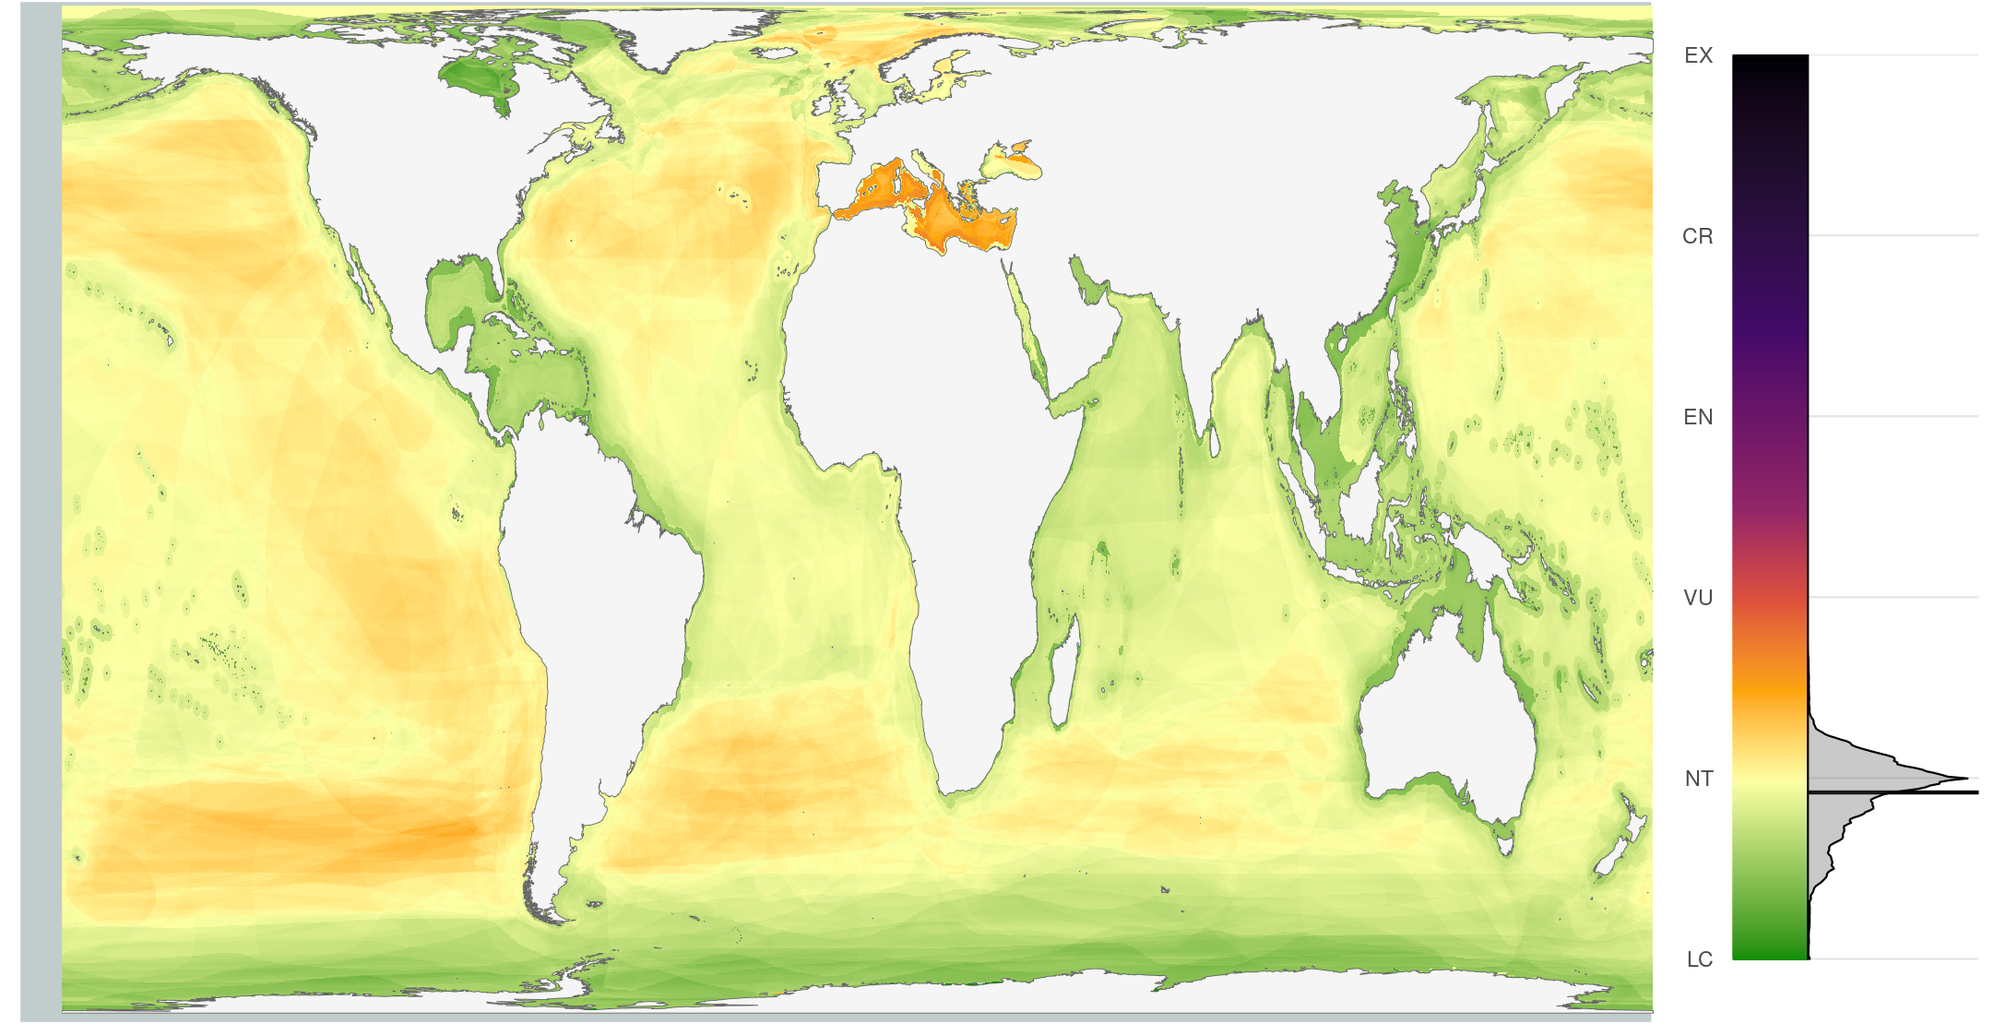
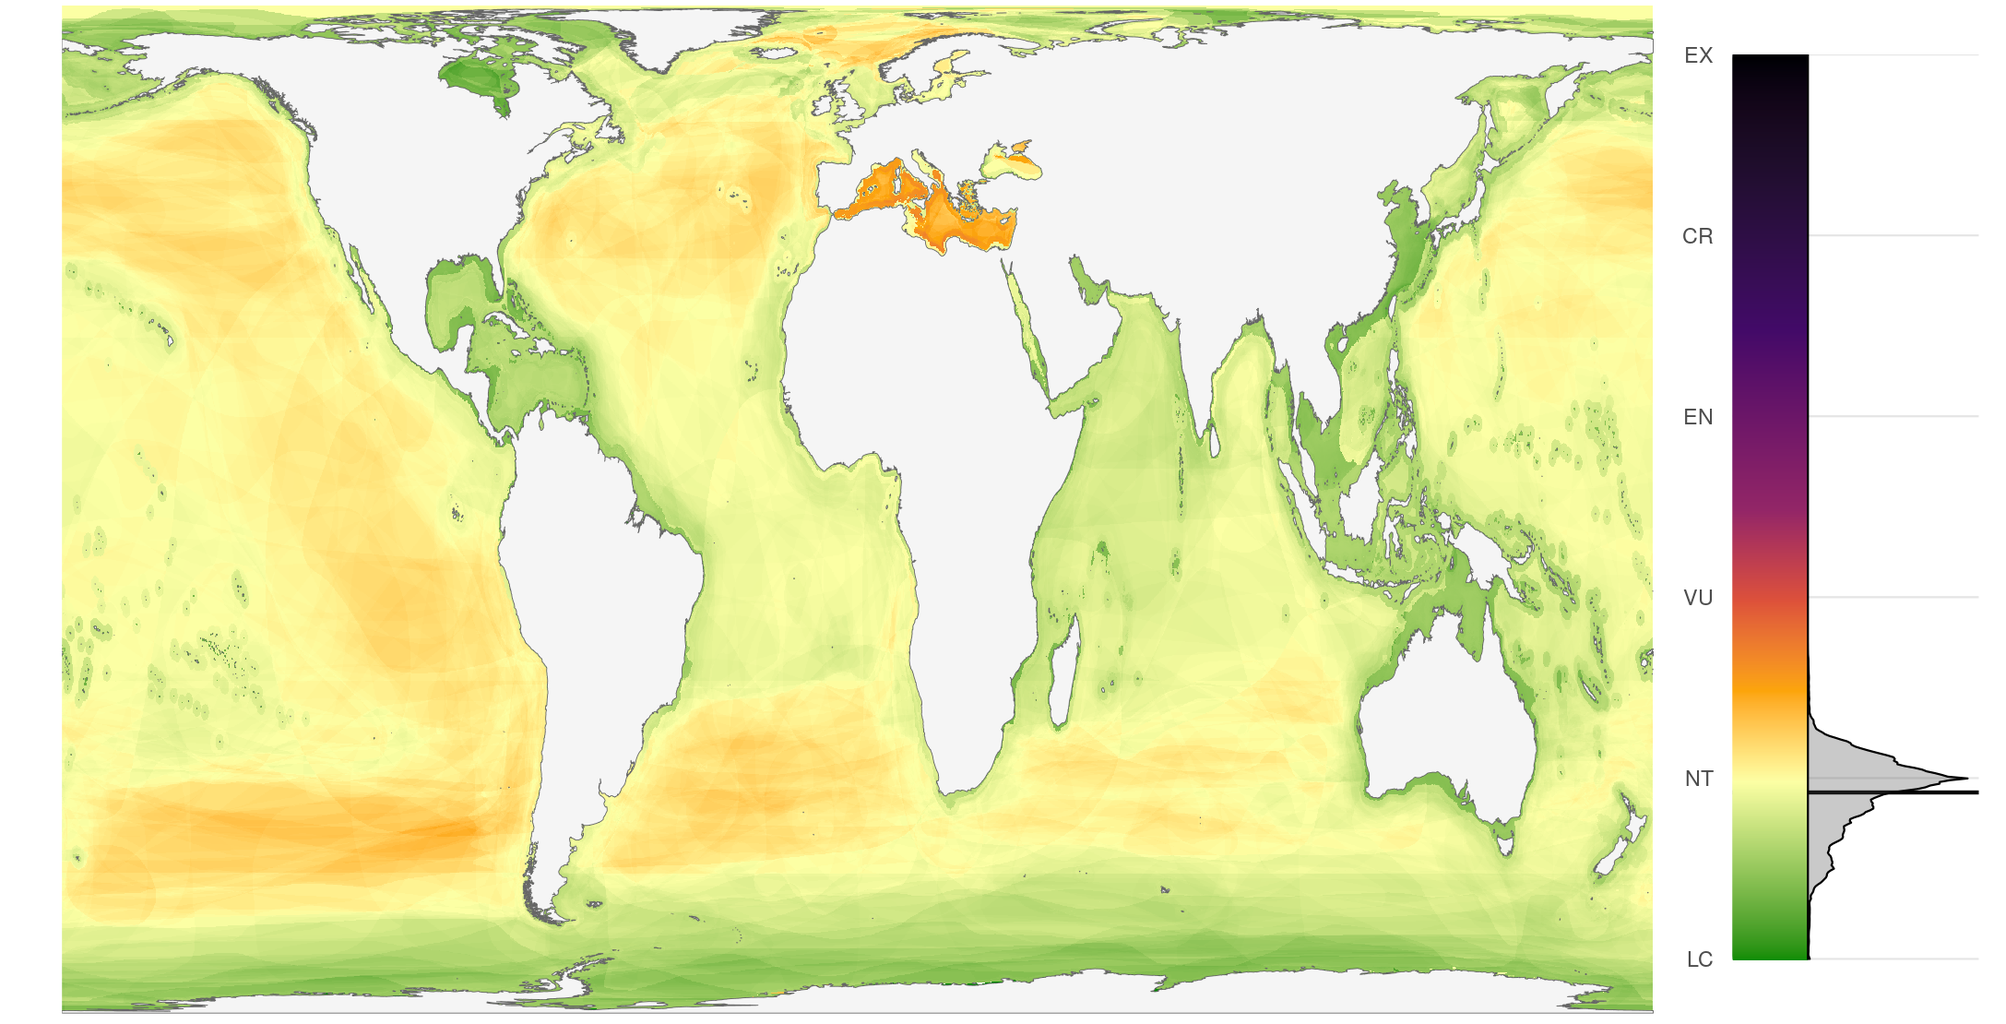
removed azure background on global bd risk plots

Changed region(s): [[0.0, 0.0, 0.8317, 1.0]]

diff --git a/pres_figs/3_draw_spp_map.html b/pres_figs/3_draw_spp_map.html
@@ -9,7 +9,7 @@
 <meta name="generator" content="pandoc" />
 
 
-<meta name="author" content="Compiled on Thu Feb 28 08:06:12 2019 by ohara" />
+<meta name="author" content="Compiled on Thu Feb 28 10:40:13 2019 by ohara" />
 
 
 <title>Biodiversity risk maps</title>
@@ -355,7 +355,7 @@ div.tocify {
 
 
 <h1 class="title toc-ignore">Biodiversity risk maps</h1>
-<h4 class="author"><em><em>Compiled on Thu Feb 28 08:06:12 2019 by ohara</em></em></h4>
+<h4 class="author"><em><em>Compiled on Thu Feb 28 10:40:13 2019 by ohara</em></em></h4>
 
 </div>
 
@@ -374,8 +374,9 @@ div.tocify {
 dir_git &lt;-<span class="st"> '~/github/spp_risk_dists'</span>
 
 ### goal specific folders and info
-dir_data  &lt;-<span class="st"> </span><span class="kw">file.path</span>(dir_git, <span class="st">'data'</span>)
-dir_o_anx &lt;-<span class="st"> </span><span class="kw">file.path</span>(dir_O, <span class="st">'git-annex/spp_risk_dists'</span>)
+dir_data    &lt;-<span class="st"> </span><span class="kw">file.path</span>(dir_git, <span class="st">'_data'</span>)
+dir_spatial &lt;-<span class="st"> </span><span class="kw">file.path</span>(dir_git, <span class="st">'_spatial'</span>)
+dir_o_anx   &lt;-<span class="st"> </span><span class="kw">file.path</span>(dir_O, <span class="st">'git-annex/spp_risk_dists'</span>)
 
 <span class="kw">source</span>(<span class="kw">file.path</span>(dir_git, <span class="st">'_setup/common_fxns.R'</span>))
 
@@ -407,7 +408,7 @@ gp_proj4 &lt;-<span class="st"> '+proj=cea +lon_0=0 +lat_ts=45 +x_0=0 +y_0=0 +el
             <span class="dt">fill =</span> <span class="st">'grey96'</span>, <span class="dt">color =</span> <span class="st">'grey40'</span>, <span class="dt">size =</span> .<span class="dv">10</span>) <span class="op">+</span>
 <span class="st">    </span><span class="kw">ggtheme_map</span>() <span class="op">+</span>
 <span class="st">    </span><span class="kw">theme</span>(<span class="dt">plot.margin =</span> <span class="kw">unit</span>(<span class="kw">c</span>(.<span class="dv">05</span>, <span class="dv">0</span>, .<span class="dv">1</span>, .<span class="dv">4</span>), <span class="dt">units =</span> <span class="st">'cm'</span>),
-          <span class="dt">plot.background =</span> <span class="kw">element_rect</span>(<span class="dt">fill =</span> <span class="st">'azure3'</span>)) <span class="op">+</span>
+          <span class="dt">plot.background =</span> <span class="kw">element_rect</span>(<span class="dt">fill =</span> <span class="ot">NA</span>)) <span class="op">+</span>
 <span class="st">    </span><span class="kw">coord_sf</span>(<span class="dt">datum =</span> <span class="ot">NA</span>, <span class="dt">expand =</span> <span class="ot">FALSE</span>) <span class="op">+</span><span class="st"> </span>### ditch graticules
 <span class="st">    </span><span class="kw">scale_fill_gradientn</span>(<span class="dt">colors =</span> colors, <span class="dt">values =</span> values, <span class="dt">limits =</span> limits,
                          <span class="dt">labels =</span> labels, <span class="dt">breaks =</span> breaks,
@@ -482,8 +483,8 @@ one_panel &lt;-<span class="st"> </span><span class="cf">function</span>(map1_ra
                         <span class="dt">breaks =</span> risk_brks)
   <span class="kw">ggsave</span>(spp_png, <span class="dt">width =</span> <span class="fl">6.0</span>, <span class="dt">height =</span> <span class="fl">3.7</span>, <span class="dt">units =</span> <span class="st">'in'</span>, <span class="dt">dpi =</span> <span class="dv">300</span>)
 }</code></pre></div>
-<div class="sourceCode"><pre class="sourceCode r"><code class="sourceCode r">global_risk_rast   &lt;-<span class="st"> </span><span class="kw">raster</span>(<span class="kw">file.path</span>(dir_git, <span class="st">'_output'</span>, <span class="st">'mean_risk_raster_comp.tif'</span>))
-global_risk_rr_rast   &lt;-<span class="st"> </span><span class="kw">raster</span>(<span class="kw">file.path</span>(dir_git, <span class="st">'_output'</span>, <span class="st">'mean_rr_risk_raster_comp.tif'</span>))
+<div class="sourceCode"><pre class="sourceCode r"><code class="sourceCode r">global_risk_rast    &lt;-<span class="st"> </span><span class="kw">raster</span>(<span class="kw">file.path</span>(dir_git, <span class="st">'_output'</span>, <span class="st">'mean_risk_raster_comp.tif'</span>))
+global_risk_rr_rast &lt;-<span class="st"> </span><span class="kw">raster</span>(<span class="kw">file.path</span>(dir_git, <span class="st">'_output'</span>, <span class="st">'mean_rr_risk_raster_comp.tif'</span>))
 
 mean_map &lt;-<span class="st"> </span><span class="kw">two_panel</span>(global_risk_rast,
                       <span class="dt">colors =</span> risk_cols,
@@ -517,6 +518,139 @@ mean_map &lt;-<span class="st"> </span><span class="kw">one_panel</span>(global_
                       <span class="dt">breaks =</span> risk_brks)
 <span class="kw">ggsave</span>(<span class="kw">file.path</span>(dir_git, <span class="st">'pres_figs/fig'</span>, <span class="st">'mean_rr_risk_raster_comp_no_colorbar.png'</span>),
        <span class="dt">width =</span> <span class="dv">6</span>, <span class="dt">height =</span> <span class="fl">3.7</span>, <span class="dt">units =</span> <span class="st">'in'</span>, <span class="dt">dpi =</span> <span class="dv">300</span>)</code></pre></div>
+<div class="sourceCode"><pre class="sourceCode r"><code class="sourceCode r">global_risk_rr_rast &lt;-<span class="st"> </span><span class="kw">raster</span>(<span class="kw">file.path</span>(dir_git, <span class="st">'_output'</span>, <span class="st">'mean_rr_risk_raster_comp.tif'</span>))
+
+rast_base &lt;-<span class="st"> </span><span class="kw">raster</span>(<span class="kw">file.path</span>(dir_spatial, <span class="st">'cell_id_rast.tif'</span>))
+
+<span class="co"># eez_shp_file &lt;- file.path(dir_M, 'git-annex/globalprep/spatial/v2017/regions_2017_update.shp')</span>
+<span class="co"># </span>
+<span class="co"># eez_poly &lt;- sf::read_sf(eez_shp_file) %&gt;%</span>
+<span class="co">#   st_transform(gp_proj4)</span>
+<span class="co"># eez_poly_simple &lt;- eez_poly %&gt;%</span>
+<span class="co">#   filter(rgn_type == 'eez' &amp; rgn_id != 213) %&gt;%</span>
+<span class="co">#   st_simplify(dTolerance = 1000)</span>
+<span class="co"># </span>
+<span class="co"># write_sf(eez_poly_simple, file.path(dir_spatial, 'eez_simple.shp'))</span>
+
+ocean_area_rast &lt;-<span class="st"> </span><span class="kw">raster</span>(<span class="kw">file.path</span>(dir_git, <span class="st">'_spatial'</span>, <span class="st">'ocean_area_rast.tif'</span>))
+
+eez_poly_simple &lt;-<span class="st"> </span><span class="kw">read_sf</span>(<span class="kw">file.path</span>(dir_spatial, <span class="st">'eez_simple.shp'</span>))
+
+land_poly &lt;-<span class="st"> </span>sf<span class="op">::</span><span class="kw">read_sf</span>(<span class="kw">file.path</span>(dir_git, <span class="st">'_spatial/ne_10m_land'</span>, 
+                                   <span class="st">'ne_10m_land_no_casp.shp'</span>)) <span class="op">%&gt;%</span>
+<span class="st">    </span><span class="kw">st_transform</span>(gp_proj4) 
+  
+
+risk_df &lt;-<span class="st"> </span><span class="kw">data.frame</span>(<span class="dt">cell_id   =</span> <span class="dv">1</span><span class="op">:</span><span class="kw">length</span>(<span class="kw">values</span>(global_risk_rr_rast)),
+                      <span class="dt">ocean_area =</span> <span class="kw">values</span>(ocean_area_rast),
+                      <span class="dt">mean_risk =</span> <span class="kw">values</span>(global_risk_rr_rast)) <span class="op">%&gt;%</span>
+<span class="st">  </span><span class="kw">filter</span>(<span class="op">!</span><span class="kw">is.na</span>(mean_risk))
+
+mpa_df   &lt;-<span class="st"> </span><span class="kw">read_csv</span>(<span class="kw">file.path</span>(dir_git, <span class="st">'_spatial'</span>, <span class="st">'wdpa_mpa_area.csv'</span>),
+                          <span class="dt">col_types =</span> <span class="st">'dddd'</span>) <span class="op">%&gt;%</span>
+<span class="st">  </span><span class="kw">filter</span>(wdpa_category <span class="op">&lt;=</span><span class="st"> </span><span class="dv">2</span>) <span class="op">%&gt;%</span>
+<span class="st">  </span><span class="kw">select</span>(<span class="op">-</span>wdpa_category) <span class="op">%&gt;%</span>
+<span class="st">  </span><span class="kw">group_by</span>(cell_id) <span class="op">%&gt;%</span>
+<span class="st">  </span><span class="kw">summarize</span>(<span class="dt">mpa =</span> <span class="kw">sum</span>(prot_area_km2, <span class="dt">na.rm =</span> <span class="ot">TRUE</span>))
+
+risk_mpa_df &lt;-<span class="st"> </span>risk_df <span class="op">%&gt;%</span>
+<span class="st">  </span><span class="kw">left_join</span>(mpa_df, <span class="dt">by =</span> <span class="st">'cell_id'</span>) <span class="op">%&gt;%</span>
+<span class="st">  </span><span class="kw">mutate</span>(<span class="dt">mpa =</span> <span class="kw">ifelse</span>(<span class="kw">is.na</span>(mpa), <span class="dv">0</span>, mpa),
+         <span class="dt">mpa =</span> <span class="kw">ifelse</span>(mpa <span class="op">&gt;</span><span class="st"> </span>ocean_area, ocean_area, mpa),
+         <span class="dt">non_mpa =</span> ocean_area <span class="op">-</span><span class="st"> </span>mpa) <span class="op">%&gt;%</span>
+<span class="st">  </span><span class="kw">gather</span>(mpa_status, area, mpa, non_mpa) <span class="op">%&gt;%</span>
+<span class="st">  </span><span class="kw">mutate</span>(<span class="dt">mpa_status =</span> (mpa_status <span class="op">==</span><span class="st"> 'mpa'</span>))
+
+mpa_status &lt;-<span class="st"> </span>risk_mpa_df <span class="op">%&gt;%</span>
+<span class="st">  </span><span class="kw">filter</span>(mpa_status) <span class="op">%&gt;%</span>
+<span class="st">  </span><span class="kw">filter</span>(area <span class="op">&gt;</span><span class="st"> </span><span class="dv">0</span>)
+
+mpa_rast &lt;-<span class="st"> </span>raster<span class="op">::</span><span class="kw">subs</span>(rast_base, mpa_status, <span class="dt">by =</span> <span class="st">'cell_id'</span>, <span class="dt">which =</span> <span class="st">'area'</span>)
+mpa_rast_df &lt;-<span class="st"> </span><span class="kw">data.frame</span>(<span class="dt">mpa =</span> <span class="kw">values</span>(mpa_rast)) <span class="op">%&gt;%</span>
+<span class="st">    </span><span class="kw">cbind</span>(<span class="kw">coordinates</span>(mpa_rast)) <span class="op">%&gt;%</span><span class="st"> </span>
+<span class="st">    </span><span class="kw">filter</span>(<span class="op">!</span><span class="kw">is.na</span>(mpa))
+
+map_df &lt;-<span class="st"> </span><span class="kw">data.frame</span>(<span class="dt">risk =</span> <span class="kw">values</span>(global_risk_rr_rast)) <span class="op">%&gt;%</span>
+<span class="st">  </span><span class="kw">cbind</span>(<span class="kw">coordinates</span>(global_risk_rr_rast)) <span class="op">%&gt;%</span><span class="st"> </span>
+<span class="st">  </span><span class="kw">filter</span>(<span class="op">!</span><span class="kw">is.na</span>(risk))
+
+map1 &lt;-<span class="st"> </span><span class="kw">ggplot</span>(map_df) <span class="op">+</span>
+<span class="st">  </span><span class="kw">geom_raster</span>(<span class="kw">aes</span>(x, y, <span class="dt">fill =</span> risk), <span class="dt">show.legend =</span> <span class="ot">FALSE</span>) <span class="op">+</span>
+<span class="st">  </span><span class="kw">geom_sf</span>(<span class="dt">data =</span> eez_poly_simple, <span class="kw">aes</span>(<span class="dt">geometry =</span> geometry), 
+          <span class="dt">fill =</span> <span class="ot">NA</span>, <span class="dt">color =</span> <span class="st">'black'</span>, <span class="dt">size =</span> .<span class="dv">1</span>) <span class="op">+</span>
+<span class="st">  </span><span class="kw">geom_sf</span>(<span class="dt">data =</span> land_poly, <span class="kw">aes</span>(<span class="dt">geometry =</span> geometry), 
+          <span class="dt">fill =</span> <span class="st">'grey96'</span>, <span class="dt">color =</span> <span class="st">'grey40'</span>, <span class="dt">size =</span> .<span class="dv">10</span>) <span class="op">+</span>
+<span class="st">  </span><span class="kw">ggtheme_map</span>() <span class="op">+</span>
+<span class="st">  </span><span class="kw">theme</span>(<span class="dt">plot.margin =</span> <span class="kw">unit</span>(<span class="kw">c</span>(.<span class="dv">05</span>, <span class="dv">0</span>, .<span class="dv">1</span>, .<span class="dv">4</span>), <span class="dt">units =</span> <span class="st">'cm'</span>),
+        <span class="dt">plot.background =</span> <span class="kw">element_rect</span>(<span class="dt">fill =</span> <span class="ot">NA</span>)) <span class="op">+</span>
+<span class="st">  </span><span class="kw">coord_sf</span>(<span class="dt">datum =</span> <span class="ot">NA</span>, <span class="dt">expand =</span> <span class="ot">FALSE</span>) <span class="op">+</span><span class="st"> </span>### ditch graticules
+<span class="st">  </span><span class="kw">scale_fill_gradientn</span>(<span class="dt">colors =</span> risk_cols, <span class="dt">values =</span> risk_vals, <span class="dt">limits =</span> <span class="kw">c</span>(<span class="dv">0</span>, <span class="dv">1</span>),
+                       <span class="dt">labels =</span> risk_lbls, <span class="dt">breaks =</span> risk_brks,
+                       <span class="dt">guide  =</span> <span class="kw">guide_colourbar</span>(<span class="dt">label.position =</span> <span class="st">'left'</span>,
+                                                <span class="dt">label.hjust =</span> <span class="dv">1</span>)) <span class="op">+</span>
+<span class="st">  </span><span class="kw">geom_raster</span>(<span class="dt">data =</span> mpa_rast_df, <span class="kw">aes</span>(x, y), <span class="dt">fill =</span> <span class="st">'blue'</span>, <span class="dt">alpha =</span> .<span class="dv">5</span>)  
+
+### set up a dataframe of values to craft a color bar using geom_segment
+colorbar_df &lt;-<span class="st"> </span><span class="kw">data.frame</span>(<span class="dt">x =</span> <span class="kw">seq</span>(<span class="dv">0</span>, <span class="dv">1</span>, .<span class="dv">001</span>), <span class="dt">y =</span> <span class="op">-</span><span class="dv">1</span>)
+
+means_df &lt;-<span class="st"> </span>risk_mpa_df <span class="op">%&gt;%</span>
+<span class="st">  </span><span class="kw">group_by</span>(mpa_status) <span class="op">%&gt;%</span>
+<span class="st">  </span><span class="kw">summarize</span>(<span class="dt">mu =</span> <span class="kw">sum</span>(mean_risk <span class="op">*</span><span class="st"> </span>area) <span class="op">/</span><span class="st"> </span><span class="kw">sum</span>(area)) <span class="op">%&gt;%</span>
+<span class="st">  </span><span class="kw">ungroup</span>()
+
+dens1 &lt;-<span class="st"> </span><span class="kw">ggplot</span>(risk_mpa_df, <span class="kw">aes</span>(<span class="dt">x =</span> mean_risk)) <span class="op">+</span>
+<span class="st">  </span><span class="kw">ggtheme_plot</span>(<span class="dt">base_size =</span> <span class="dv">7</span>) <span class="op">+</span>
+<span class="st">  </span><span class="kw">theme</span>(<span class="dt">strip.text.x =</span> <span class="kw">element_text</span>(<span class="dt">angle =</span> <span class="dv">0</span>, <span class="dt">hjust =</span> <span class="dv">0</span>),
+        <span class="dt">axis.text.x  =</span> <span class="kw">element_blank</span>(),
+        <span class="dt">axis.title   =</span> <span class="kw">element_blank</span>(),
+        <span class="dt">panel.grid.major.x =</span> <span class="kw">element_blank</span>(),
+        <span class="dt">plot.margin =</span> <span class="kw">unit</span>(<span class="kw">c</span>(.<span class="dv">5</span>, .<span class="dv">25</span>, .<span class="dv">5</span>, .<span class="dv">1</span>), <span class="dt">units =</span> <span class="st">'cm'</span>),
+        <span class="dt">legend.position =</span> <span class="kw">c</span>(.<span class="dv">75</span>, .<span class="dv">55</span>)) <span class="op">+</span>
+<span class="st">  </span><span class="kw">geom_segment</span>(<span class="dt">data =</span> colorbar_df,
+               <span class="kw">aes</span>(<span class="dt">x =</span> x, <span class="dt">xend =</span> x, <span class="dt">color =</span> x),
+               <span class="dt">y =</span> <span class="dv">0</span>, <span class="dt">yend =</span> <span class="op">-</span><span class="dv">10</span>, <span class="dt">size =</span> <span class="dv">1</span>,
+               <span class="dt">show.legend =</span> <span class="ot">FALSE</span>) <span class="op">+</span>
+<span class="st">  </span><span class="kw">geom_density</span>(<span class="kw">aes</span>(<span class="dt">x =</span> mean_risk, <span class="dt">weight =</span> area, ..scaled..,
+                   <span class="dt">fill =</span> mpa_status), <span class="dt">color =</span> <span class="st">'grey60'</span>,
+               <span class="dt">alpha =</span> .<span class="dv">5</span>, <span class="dt">size =</span> .<span class="dv">25</span>, <span class="dt">show.legend =</span> <span class="ot">FALSE</span>) <span class="op">+</span>
+<span class="st">  </span><span class="kw">geom_vline</span>(<span class="dt">data =</span> means_df, 
+             <span class="kw">aes</span>(<span class="dt">xintercept =</span> mu, <span class="dt">linetype =</span> mpa_status),
+             <span class="dt">color =</span> <span class="st">'grey20'</span>, <span class="dt">alpha =</span> .<span class="dv">8</span>, <span class="dt">show.legend =</span> <span class="ot">FALSE</span>) <span class="op">+</span>
+<span class="st">  </span><span class="kw">scale_x_continuous</span>(<span class="dt">expand =</span> <span class="kw">c</span>(<span class="dv">0</span>, <span class="dv">0</span>), 
+                     <span class="dt">limits =</span> <span class="kw">c</span>(<span class="dv">0</span>, <span class="dv">1</span>),
+                     <span class="dt">labels =</span> risk_lbls,
+                     <span class="dt">breaks =</span> risk_brks) <span class="op">+</span>
+<span class="st">  </span><span class="kw">scale_y_continuous</span>(<span class="dt">expand =</span> <span class="kw">c</span>(<span class="dv">0</span>, <span class="dv">0</span>), <span class="dt">limits =</span> <span class="kw">c</span>(<span class="op">-</span>.<span class="dv">4</span>, <span class="dv">1</span>)) <span class="op">+</span>
+<span class="st">  </span><span class="kw">scale_fill_manual</span>(<span class="dt">values  =</span> <span class="kw">c</span>(<span class="st">'red4'</span>, <span class="st">'cadetblue2'</span>)) <span class="op">+</span>
+<span class="st">  </span><span class="kw">scale_color_gradientn</span>(<span class="dt">colors =</span> risk_cols, <span class="dt">values =</span> risk_vals, <span class="dt">limits =</span> <span class="kw">c</span>(<span class="dv">0</span>, <span class="dv">1</span>),
+                        <span class="dt">labels =</span> risk_lbls, <span class="dt">breaks =</span> risk_brks) <span class="op">+</span>
+<span class="st">  </span><span class="kw">coord_flip</span>()
+
+<span class="co"># dens1 &lt;- ggplot(map_df) +</span>
+<span class="co">#   ggtheme_plot(base_size = 7) +</span>
+<span class="co">#   geom_vline(xintercept = mean(map_df$risk, na.rm = TRUE)) +</span>
+<span class="co">#   geom_segment(data = colorbar_df, </span>
+<span class="co">#                aes(x = x, xend = x, color = x), </span>
+<span class="co">#                y = 0, yend = -10, size = 1,</span>
+<span class="co">#                show.legend = FALSE) +</span>
+<span class="co">#   geom_density(aes(x = risk, ..scaled.., fill = mpa, weight = mpa), alpha = .3, size = .25) +</span>
+<span class="co">#   scale_color_gradientn(colors = risk_cols, values = risk_vals, limits = c(0, 1),</span>
+<span class="co">#                         labels = risk_lbls, breaks = risk_brks) +</span>
+<span class="co">#   theme(axis.text.x  = element_blank(), </span>
+<span class="co">#         axis.title = element_blank(),</span>
+<span class="co">#         panel.grid.major.x = element_blank(),</span>
+<span class="co">#         plot.margin = unit(c(.5, .25, .5, .1), units = 'cm')) +</span>
+<span class="co">#   scale_x_continuous(labels = risk_lbls, breaks = risk_brks, limits = c(0, 1),</span>
+<span class="co">#                      expand = c(0, 0)) +</span>
+<span class="co">#   scale_y_continuous(limits = c(-.4, 1)) +</span>
+<span class="co">#   coord_flip()</span>
+
+panel_top &lt;-<span class="st"> </span>cowplot<span class="op">::</span><span class="kw">plot_grid</span>(map1, dens1, 
+                                <span class="dt">axis =</span> <span class="st">'b'</span>,
+                                <span class="dt">rel_widths =</span> <span class="kw">c</span>(<span class="dv">5</span>, <span class="dv">1</span>))
+
+<span class="kw">ggsave</span>(<span class="kw">file.path</span>(dir_git, <span class="st">'pres_figs/fig'</span>, <span class="st">'mean_rr_risk_raster_comp_mpa.png'</span>),
+       <span class="dt">width =</span> <span class="fl">7.25</span>, <span class="dt">height =</span> <span class="fl">3.7</span>, <span class="dt">units =</span> <span class="st">'in'</span>, <span class="dt">dpi =</span> <span class="dv">300</span>)</code></pre></div>
 </div>
 
 
